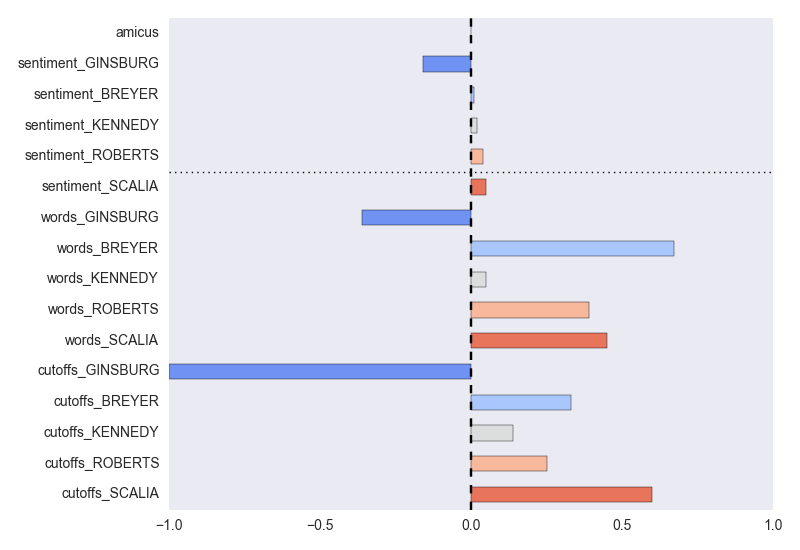
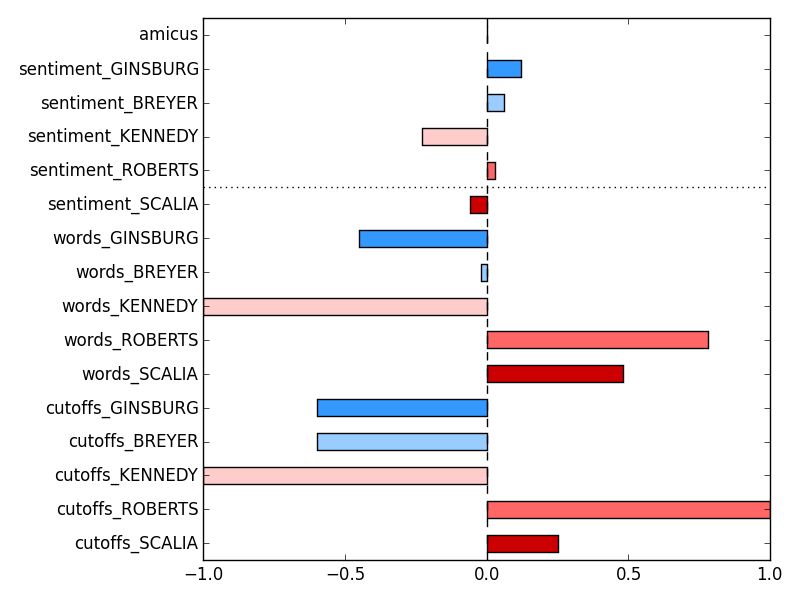
fixed views.py to check directories for local vs server

Changed region(s): [[0.0, 0.0309, 0.9688, 0.9891], [0.5625, 0.0309, 0.625, 0.0618]]

diff --git a/db/app/views.py b/db/app/views.py
@@ -3,27 +3,37 @@ from app import app
 import pymysql as mdb
 import pandas as pd
 import numpy as np
+import matplotlib
+matplotlib.use("Agg")
 import matplotlib.pyplot as plt
-import seaborn as sns
+#import seaborn as sns
 from a_Model import ModelIt
-
+import socket
 
 def plot_features(df):
     ## Transpose the series
     df = df.T
     
     ## get the list of colors we want
-    my_colors = sns.color_palette("coolwarm_r", 5)
+#    my_colors = sns.color_palette("coolwarm_r", 5)
+    my_colors = [(.8,0,0),(1,.4,.4),(1,.8,.8),(.6,.8,1),(.2,.6,1)]
     my_colors = my_colors + my_colors + my_colors
     #my_colors = my_colors + [(102,102,102)]
-    my_colors = my_colors + [(0.3984375,0.3984375,0.3984375)]
+    my_colors = my_colors + [(0.75,0.75,0.75)]
     
     df.plot(kind="barh", color=my_colors, legend=False, grid=False, xlim=(-1,1))
-    plt.axhline(10.5, color = 'k', linestyle = ':', linewidth=1.0)            
+    plt.axhline(10.5, color='k', linestyle = ':', linewidth=1.0)            
     plt.tight_layout()
     #plt.show()
+    
+    ## get the right path
+    host = socket.gethostname()
+    if 'Tatum' in host:
+        path = 'app/static/'
+    else:
+        path = '/home/ubuntu/app/static/'
     ## Make sure the relative path is right...the 'home' directory here is ..courtcast/db/app/
-    plt.savefig('/Users/nasrallah/Desktop/Insight/courtcast/db/app/static/images/fig.png')
+    plt.savefig(path + 'images/fig.png')
 
 
 ## Right now the indicator is an integer. I'm not sure how I will store unknown case outcomes. This assumes there is nothing there.
